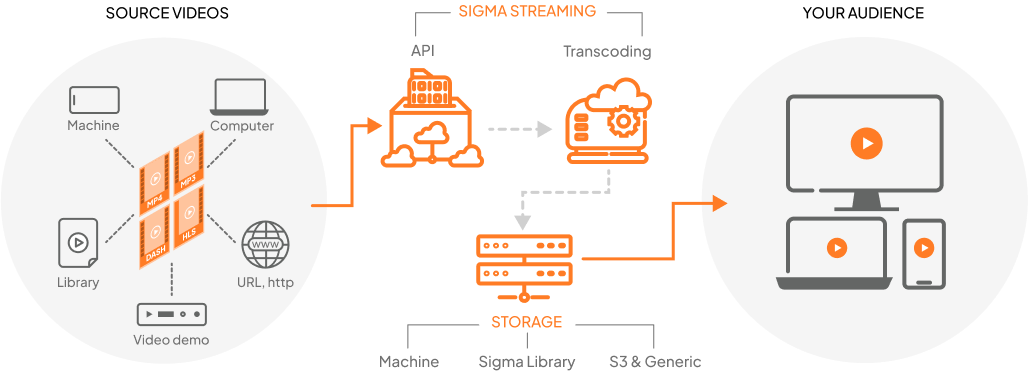
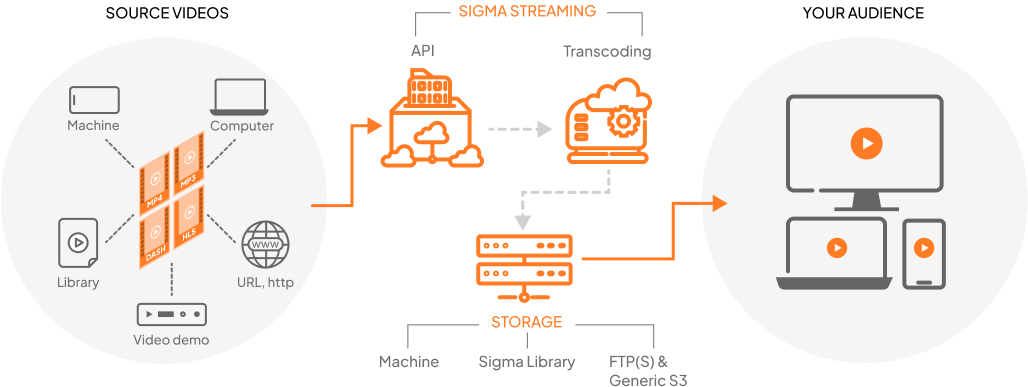
update vod, media live

diff --git a/content/products/5.sigma-vod.md b/content/products/5.sigma-vod.md
@@ -59,7 +59,7 @@ HIGHLIGHTS FEATURES
   #title
   **Pseudo-live streaming from VOD**
   #default
-  - Scheduling: schedule pre-recorded videos to be played at specific times
+  - Scheduling: Schedule pre-recorded videos to be played at specific times
   - Playback: When viewers access the stream during the scheduled time
 
   ::
@@ -70,8 +70,8 @@ HIGHLIGHTS FEATURES
   #title
   **Feature “Watch folder”**
   #default
-  - Metadata Handling: The ability to effectively manage and display metadata associated with each video file is crucial.
-  - A strong "watch folder" feature should support robust search functionality.
+  - Metadata Handling: The ability to effectively manage and display metadata associated with each video file is crucial
+  - A strong "watch folder" feature should support robust search functionality
   ::
 
   ::grid-card
@@ -90,7 +90,7 @@ HIGHLIGHTS FEATURES
   #title
   **Analytics Tool**
   #default
-  - Dashboard: real-time data sources ensures that the dashboard displays the most up-to-date information
+  - Dashboard: Real-time data sources ensures that the dashboard displays the most up-to-date information
   - Business Intelligence: Data Collection and Aggregation, Automated Reporting and Notifications,..
   ::
 ::
@@ -154,7 +154,7 @@ StrengTH
 #default
   ::grid-item{span=2 center padding=16}
   #title
-  Global Content Delivery with Top-Tier CDNs
+  Global Content Delivery with Top-Tier CDNs.
   #subtitle
   Broadcast your content to viewers around the world with the help of our network of reliable content delivery network partners.
   ::

diff --git a/content/products/6.sigma-media-live.md b/content/products/6.sigma-media-live.md
@@ -150,7 +150,7 @@ How it works
 #subtitle
 Ssystem architecture
 #default
-![Group 48096601.png](/Group%2048096601.png)
+![Group 48096798.png](/Group%2048096798.png)
 ::
 
 
